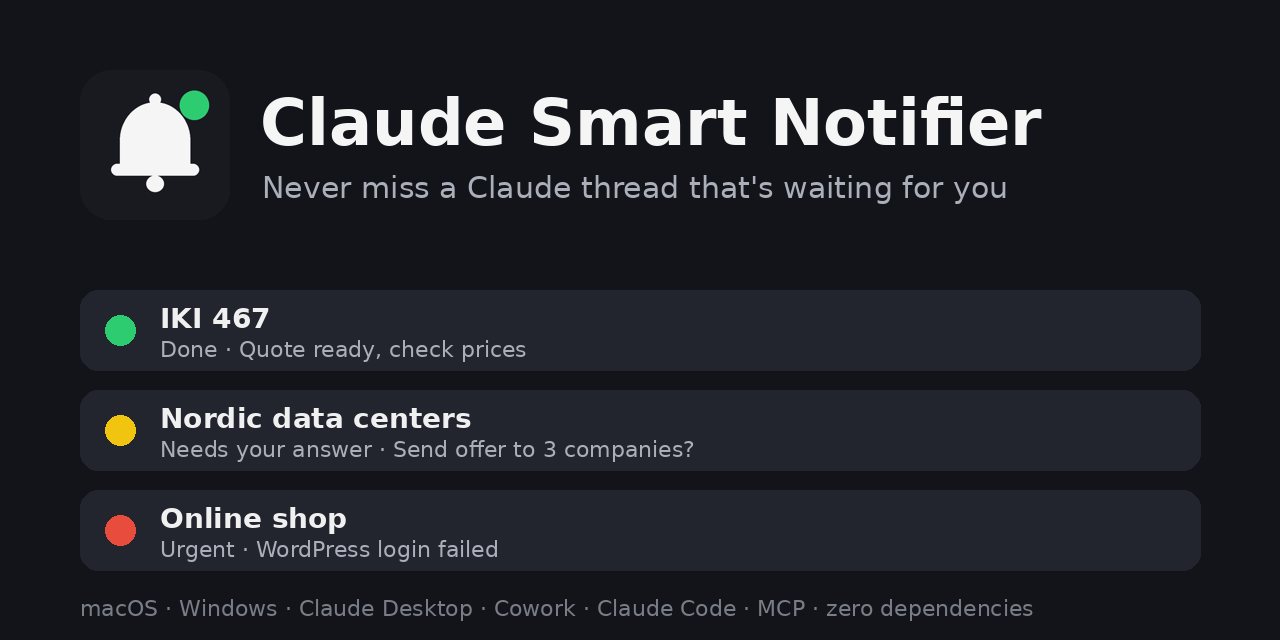
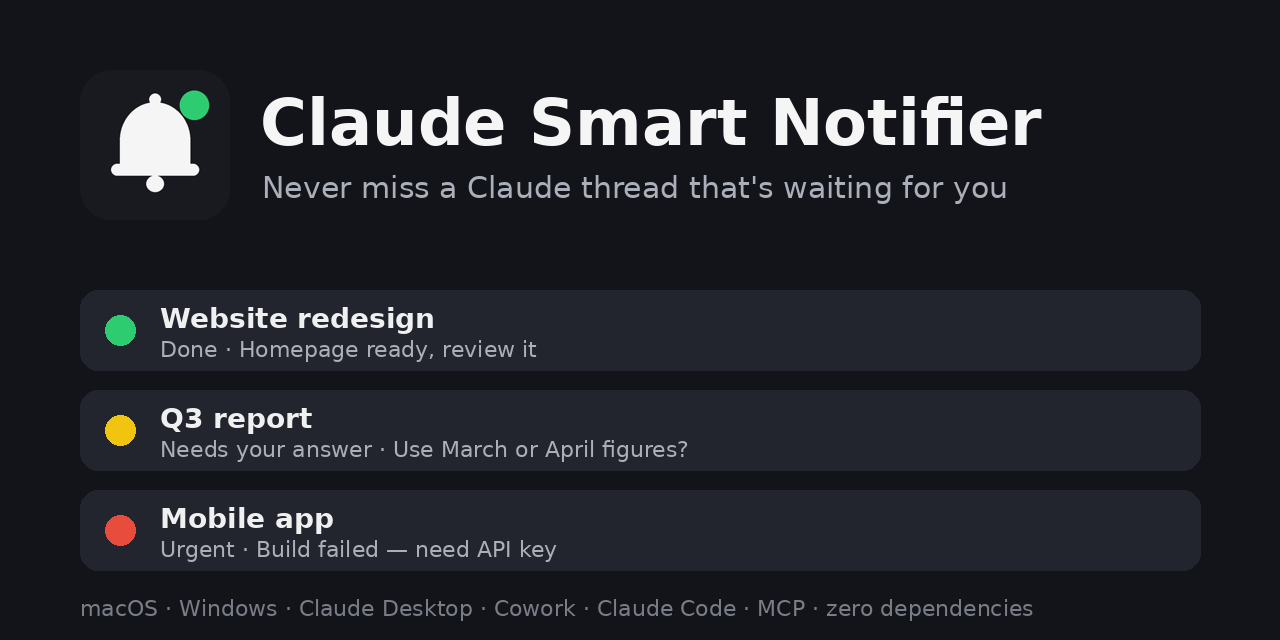
v1.2.1: audit fixes
- Neutral examples in README, preview and server instructions
- Honest macOS result (delivery can't be confirmed)
- Language/level fallbacks, length caps
- Correct update instructions; privacy link in bundle

Claude-Session: https://claude.ai/code/session_013ze2yfUATc5yfenKgcsuVC

Changed region(s): [[0.125, 0.625, 0.5625, 0.7188], [0.125, 0.4688, 0.4375, 0.5625], [0.125, 0.7812, 0.4375, 0.875]]

diff --git a/server/index.js b/server/index.js
@@ -21,7 +21,7 @@ const fs = require('fs');
 const path = require('path');
 const readline = require('readline');
 
-const VERSION = '1.2.0';
+const VERSION = '1.2.1';
 const SERVER_INFO = { name: 'claude-smart-notifier', version: VERSION };
 
 // [done, question, urgent] labels. Add a language with one line, PRs welcome.
@@ -102,7 +102,12 @@ function resolveLabels(lang) {
   let code = (lang || 'auto').toLowerCase().replace('_', '-');
   if (code === 'auto' || code === '') code = systemLocale();
   if (code.startsWith('zh') && /(tw|hk|mo|hant)/.test(code)) code = 'zh-tw';
-  const arr = LABELS[code] || LABELS[code.split('-')[0]] || LABELS.en;
+  let arr = LABELS[code] || LABELS[code.split('-')[0]];
+  if (!arr && lang && lang !== 'auto') {
+    const sys = systemLocale();
+    arr = LABELS[sys] || LABELS[sys.split('-')[0]];
+  }
+  arr = arr || LABELS.en;
   return { done: arr[0], question: arr[1], urgent: arr[2] };
 }
 
@@ -163,7 +168,7 @@ const INSTRUCTIONS =
   "Fields: title = project or thread name (short); level = 'done' (finished), 'question' (waiting for the user), " +
   "'urgent' (blocked, error, deadline); lang = language code of your reply (e.g. 'en', 'ru'); message = ultra-short summary of what the user must do, " +
   "max ~40 characters, imperative, in the user's language, most important words first " +
-  "(e.g. 'Pick NVR: Dahua or Hikvision?', 'Quote ready, check prices'). " +
+  "(e.g. 'Pick a logo: A or B?', 'Report ready, review figures'). " +
   'Never put details in the notification; they stay in the chat.';
 
 function toolsDef(cfg) {
@@ -273,15 +278,17 @@ function notifyLinux(n) {
 async function notify(args) {
   const cfg = loadConfig(args.lang);
   if (cfg.mute) return { text: 'Muted in settings — notification not shown.', isError: false };
-  const level = cfg.levels[args.level] ? args.level : cfg.defaultLevel;
+  const has = (k) => typeof k === 'string' && Object.prototype.hasOwnProperty.call(cfg.levels, k);
+  const level = has(args.level) ? args.level : cfg.defaultLevel;
   const spec = cfg.levels[level] || {};
-  let title = String(args.title || 'Claude');
+  const clip = (v, n) => { const t = String(v || '').replace(/\s+/g, ' ').trim(); return t.length > n ? t.slice(0, n - 1) + '…' : t; };
+  let title = clip(args.title || 'Claude', 60);
   if (cfg.emojiInTitle !== false && spec.emoji) title = `${spec.emoji} ${title}`;
   const n = {
     level,
     title,
-    message: String(args.message || ''),
-    subtitle: String(args.subtitle || spec.label || ''),
+    message: clip(args.message, 120),
+    subtitle: clip(args.subtitle || spec.label, 60),
     sound: String(args.sound || spec.sound || ''),
   };
   let r;
@@ -289,7 +296,10 @@ async function notify(args) {
   else if (process.platform === 'win32') r = await notifyWindows(n);
   else r = await notifyLinux(n);
   if (r.code !== 0) return { text: `Notification failed (${process.platform}): ${r.stderr.trim()}`, isError: true };
-  return { text: `Notification shown [${level}]: ${n.title} | ${n.subtitle} | ${n.message}`, isError: false };
+  const note = process.platform === 'darwin'
+    ? ' (handed to macOS; delivery cannot be confirmed — if the user saw nothing, Script Editor notifications are off or Focus is on)'
+    : '';
+  return { text: `Notification sent [${level}]: ${n.title} | ${n.subtitle} | ${n.message}${note}`, isError: false };
 }
 
 // ---------- MCP stdio JSON-RPC ----------

diff --git a/README.md b/README.md
@@ -39,9 +39,9 @@ You run five Claude threads across three projects. One of them finished ten minu
 Every thread pings you, with the **project name** and **one ultra-short line** saying exactly what it needs. Details stay in the chat.
 
 ```
-✅  IKI 467              Done                Quote ready, check prices
-🟡  Nordic data centers  Needs your answer   Send offer to 3 companies?
-🔴  Online shop          Urgent              WordPress login failed — send creds
+✅  Website redesign     Done                Homepage ready, review it
+🟡  Q3 report            Needs your answer   Use March or April figures?
+🔴  Mobile app           Urgent              Build failed — need API key
 ```
 
 | Level | When | Default sound (macOS) |
@@ -71,7 +71,7 @@ Every thread pings you, with the **project name** and **one ultra-short line** s
 2. Double-click it. Claude opens the install dialog, then click **Install**
 3. *(optional)* **Settings → Extensions → Claude Smart Notifier**: language (`auto` = same as the thread, 48 languages), sounds, mute
 
-> **Do I need to put any files on my computer?** No. The `.mcpb` is a Claude Desktop extension: Claude installs it, runs it with its own built-in Node.js, and updates it. Nothing to configure by hand.
+> **Do I need to put any files on my computer?** No. The `.mcpb` is a Claude Desktop extension: Claude installs it and runs it with its own built-in Node.js. To update, download the new `.mcpb` from Releases and install it again. Nothing to configure by hand.
 
 Start a **new** chat and give it something that takes a while. You'll get pinged when it's done.
 
@@ -166,7 +166,7 @@ On Windows each level uses a system sound (Default / Reminder / IM), and 🔴 ur
 
 | Symptom | Fix |
 |---|---|
-| **macOS: nothing appears** | Notifications go through `osascript`, which macOS attributes to **Script Editor**. Open *System Settings → Notifications → Script Editor* and allow them. Turn off Focus / Do Not Disturb. |
+| **macOS: nothing appears** (the tool still reports "sent": macOS gives no delivery confirmation) | Notifications go through `osascript`, which macOS attributes to **Script Editor**. Open *System Settings → Notifications → Script Editor* and allow them. Turn off Focus / Do Not Disturb. |
 | **macOS: click opens Script Editor** | Known `osascript` limitation. Switch to Claude manually. |
 | **Windows: nothing appears** | *Settings → System → Notifications* must be on; Focus Assist off. Toasts appear under *Windows PowerShell*. |
 | **A thread didn't ping me** | The server instructs Claude, but the model decides when to call the tool. Already-open threads only pick it up after a restart. To make a project more reliable, add to its instructions: *"When you finish or need my answer, call notify."* |
@@ -196,7 +196,7 @@ Add one line to `LABELS` in `server/index.js` and open a PR.
 
 ## 🛠 How it works
 
-A ~260-line, zero-dependency Node.js [MCP](https://modelcontextprotocol.io) server with one tool:
+A ~350-line, zero-dependency Node.js [MCP](https://modelcontextprotocol.io) server with one tool:
 
 ```
 notify(title, message, level = done | question | urgent, subtitle?, sound?)

diff --git a/README.ru.md b/README.ru.md
@@ -22,9 +22,9 @@
 Каждая ветка присылает уведомление: **название проекта** и **одна короткая строка**, что от вас нужно. Подробности остаются в чате.
 
 ```
-✅  IKI 467              Готово        Смета готова, проверь цены
-🟡  Дата-центры Nordic   Нужен ответ   Отправить оффер в 3 компании?
-🔴  Интернет-магазин     Срочно        WordPress не пускает — дай логин
+✅  Редизайн сайта       Готово        Главная готова, посмотри
+🟡  Отчёт за квартал     Нужен ответ   Брать цифры марта или апреля?
+🔴  Мобильное приложение Срочно        Сборка упала — нужен API-ключ
 ```
 
 - Работает в **Claude Desktop** (чаты, проекты, Cowork) и **Claude Code**
@@ -43,7 +43,7 @@
 2. Кликните дважды, потом нажмите **Install**
 3. Язык подхватится из системы автоматически (`auto`). Поменять можно в *Settings → Extensions → Claude Smart Notifier*
 
-> **Нужно ли класть файлы на компьютер?** Нет. `.mcpb` — это расширение Claude Desktop: Claude сам его ставит, запускает своим встроенным Node.js и обновляет.
+> **Нужно ли класть файлы на компьютер?** Нет. `.mcpb` — это расширение Claude Desktop: Claude сам его ставит и запускает своим встроенным Node.js. Для обновления скачайте новый `.mcpb` из Releases и установите поверх.
 
 Откройте **новую** ветку, и готово.
 

diff --git a/CHANGELOG.md b/CHANGELOG.md
@@ -1,5 +1,15 @@
 # Changelog
 
+## [1.2.1] — 2026-11-11
+
+### Fixed
+- Unknown language code now falls back to the system language instead of English
+- Unknown level (incl. `__proto__`) falls back to the default level
+- Title/subtitle capped at 60 chars, message at 120
+- macOS result no longer claims the notification was shown (delivery can't be confirmed)
+- Privacy policy link included in the bundle manifest
+- README: neutral examples, correct update instructions
+
 ## [1.2.0] — 2026-11-11
 
 ### Changed
